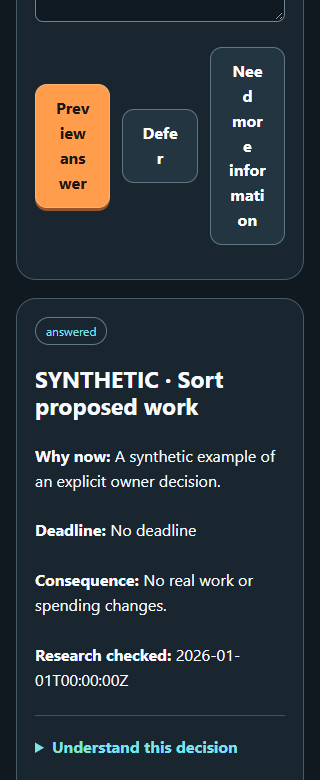
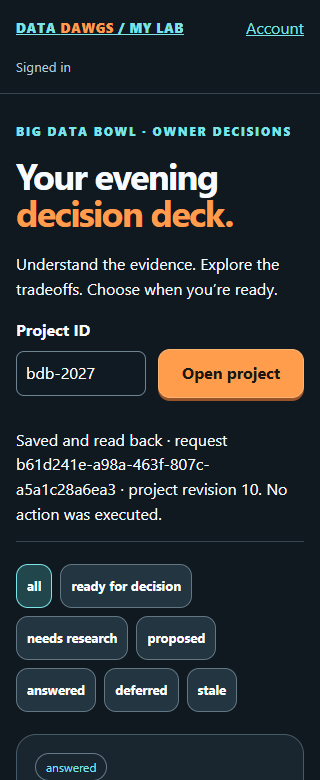
Keep decision actions readable on narrow phones

diff --git a/research-lab/decisions.css b/research-lab/decisions.css
@@ -1,1 +1,2 @@
 :root{color-scheme:dark;--ink:#101820;--panel:#19252f;--orange:#ff9d4d;--cyan:#7ce3e8;--muted:#b6c7d2}*{box-sizing:border-box}body{margin:0;background:var(--ink);color:#f7fbff;font:16px/1.55 system-ui,sans-serif}header,main{max-width:950px;margin:auto;padding:24px}header{display:flex;align-items:center;flex-wrap:wrap;gap:16px;border-bottom:1px solid #354651}header a:first-child{margin-right:auto;font-weight:800;font-size:13px;letter-spacing:.05em}header span,em{color:var(--orange)}a{color:var(--cyan);overflow-wrap:anywhere}h1{font-size:clamp(36px,8vw,68px);line-height:1.02;letter-spacing:-.045em;margin:16px 0 22px}em{font-style:normal}h2{font-size:25px;line-height:1.2}h3{font-size:18px}p{max-width:75ch}.eyebrow{font-size:12px;letter-spacing:.14em;color:var(--cyan);font-weight:800}.row{display:flex;gap:12px;flex-wrap:wrap;align-items:center}button,input,select,textarea,summary{font:inherit;min-height:44px}button{border:1px solid #f9b373;border-radius:12px;padding:11px 18px;background:var(--orange);color:#1b160f;font-weight:750;cursor:pointer;box-shadow:0 3px 0 #985329;transition:transform .1s}button:active{transform:translateY(2px);box-shadow:none}button:disabled{opacity:.55;cursor:wait}.secondary,nav button{background:#223541;border-color:#627783;color:#fff;box-shadow:none}button[aria-pressed=true]{border-color:var(--cyan);background:#21464b}input,select,textarea{width:100%;max-width:100%;border:1px solid #6e8493;border-radius:8px;padding:9px;background:#0f1a23;color:#fff}input[type=radio]{width:22px;min-height:22px;accent-color:var(--orange)}input[type=range]{padding:0;accent-color:var(--orange)}#project{flex:1;min-width:130px}label{display:block;margin:12px 0 6px;font-weight:650}small,.muted{color:var(--muted)}#status{padding:14px 0;border-bottom:1px solid #354651;white-space:pre-wrap}nav{display:flex;gap:8px;flex-wrap:wrap;margin:22px 0}nav button{font-size:13px;padding:10px}.card{background:var(--panel);border:1px solid #465b68;border-radius:20px;padding:24px;margin:18px 0;overflow-wrap:anywhere}.badge{display:inline-block;padding:4px 10px;border:1px solid #637a88;border-radius:99px;font-size:12px;color:var(--cyan)}.facts{display:grid;grid-template-columns:1fr 1fr;gap:15px}.facts p{margin:5px 0}details{border-top:1px solid #405562;margin-top:18px;padding-top:10px}summary{cursor:pointer;font-weight:750;color:var(--cyan);padding:9px 0}.option{display:flex;gap:14px;align-items:center;padding:16px;border:1px solid #637583;border-radius:12px;font-weight:500}.option:has(input:checked){border-color:var(--orange);background:#2d3030}.lesson{border-left:3px solid var(--cyan);padding-left:16px}.tradeoff{padding:14px;background:#101d26;border-radius:10px;margin:10px 0}.answer{border-top:1px solid #526979;margin-top:20px;padding-top:10px}.answer fieldset{border:0;padding:0;margin:0}.answer legend{font-weight:750;margin-bottom:12px}.answer .row{margin-top:18px}.answer textarea{min-height:90px}.warning{border-left:3px solid var(--orange);padding-left:12px}.methods{margin:32px 0}.mechanism{display:block;margin:8px 0}.receipt{color:var(--cyan);font-size:13px;white-space:pre-wrap}dialog{background:#19252f;color:#fff;border:1px solid var(--cyan);border-radius:18px;padding:24px;max-width:560px;width:calc(100% - 24px);max-height:90vh;overflow:auto}dialog::backdrop{background:#000b}pre{white-space:pre-wrap;font:inherit;padding:16px;background:#0d1820;border-radius:12px;overflow-wrap:anywhere}:focus-visible{outline:3px solid var(--cyan);outline-offset:4px}@media(max-width:480px){header,main{padding:16px}.card{padding:18px}.facts{grid-template-columns:1fr}.row>button{flex:1}h2{font-size:23px}}@media(prefers-reduced-motion:reduce){*{transition:none!important;scroll-behavior:auto!important}button:active{transform:none}}
+@media(max-width:480px){.answer .row{display:grid;grid-template-columns:1fr;align-items:stretch}.answer .row>button{width:100%;overflow-wrap:normal;word-break:normal}}
